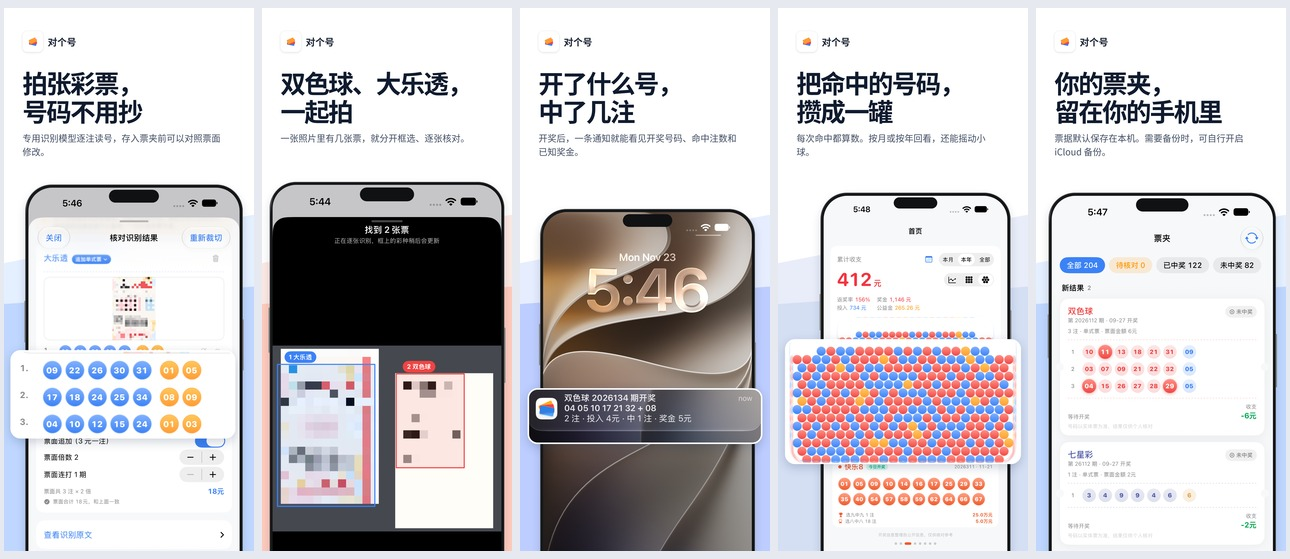
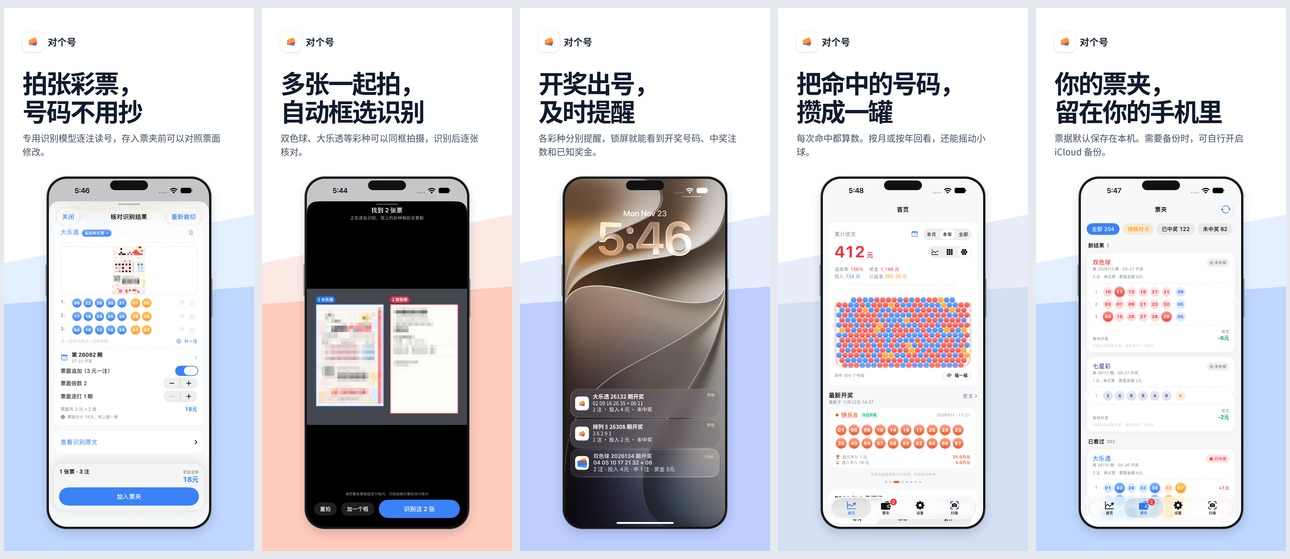
Show full screens and refine multi-ticket and notification store artwork

diff --git a/AppStore/Studio/index.html b/AppStore/Studio/index.html
@@ -60,22 +60,13 @@
       .poster::before,.poster::after { content:""; position:absolute; z-index:-1; border-radius:9cqw; }
       .poster::before { top:43%; left:-19%; width:143%; height:74%; transform:rotate(-11deg); background:var(--pale); }
       .poster::after { top:53%; left:-24%; width:148%; height:72%; transform:rotate(-4deg); background:var(--mid); }
-      .detail { display:none; position:absolute; z-index:3; border:.65cqw solid white; background:white; border-radius:4cqw; overflow:hidden; box-shadow:0 1.3cqw 4cqw #172d4c35; }
-      .detail img { display:block; position:absolute; max-width:none; }
-      /* Enlargements are crops of the same original simulator frame. */
-      [data-slide="0"] .detail { display:block; left:2.6%; width:90%; top:63%; height:16.3%; }
-      [data-slide="0"] .detail img { width:144%; left:-7%; top:-268%; }
-      [data-slide="3"] .detail { display:block; left:2.8%; width:94.4%; top:61%; height:23%; }
-      [data-slide="3"] .detail img { width:114%; left:-7%; top:-156%; }
-      [data-slide="2"] .detail { display:block; left:3%; width:94%; top:70%; height:10.3%; }
-      [data-slide="2"] .detail img { width:108%; left:-4%; top:-804%; }
       .device {
         position: absolute;
-        top: 32.5%;
-        width: 87%;
-        left: 8.5%;
-        padding: 1.25%;
-        border-radius: 10.6cqw;
+        top: 31%;
+        width: 66%;
+        left: 17%;
+        padding: 0.95%;
+        border-radius: 8.1cqw;
         background: linear-gradient(
           100deg,
           #54575a,
@@ -91,14 +82,10 @@
           0 1.8cqw 3.6cqw #15233a27,
           inset 0 0 0 0.2cqw #676b70;
       }
-      [data-slide="1"] .device { width:94%; left:3%; top:32%; }
-      [data-slide="3"] .device { width:76%; left:17%; top:34%; }
-      [data-slide="2"] .device { top:37%; left:8%; width:86%; }
-      [data-slide="4"] .device { width:91%; left:5%; top:34%; }
       .device img {
         display: block;
         width: 100%;
-        border-radius: 9.4cqw;
+        border-radius: 7.2cqw;
         position: relative;
       }
       .device:before,
@@ -158,7 +145,6 @@
           <p contenteditable="true"></p>
         </div>
         <div class="device"><img alt="" /><i class="island"></i></div>
-        <div class="detail" aria-hidden="true"><img alt="" /></div>
       </section>
     </main>
     <script src="vendor/html2canvas.min.js"></script>
@@ -166,8 +152,8 @@
       const base = "../../Tests/LotteryWalletUITests/__Snapshots__/";
       const slides = [
         ["识别", "拍张彩票，\n号码不用抄", "专用识别模型逐注读号，存入票夹前可以对照票面修改。", "AppStoreScreenshotTests/04-scan.png"],
-        ["多票", "双色球、大乐透，\n一起拍", "一张照片里有几张票，就分开框选、逐张核对。", "AppStoreScreenshotTests/06-multiple.png"],
-        ["通知", "开了什么号，\n中了几注", "开奖后，一条通知就能看见开奖号码、命中注数和已知奖金。", "AppStoreScreenshotTests/07-notification.png"],
+        ["多票", "多张一起拍，\n自动框选识别", "双色球、大乐透等彩种可以同框拍摄，识别后逐张核对。", "art/multiple.png"],
+        ["通知", "开奖出号，\n及时提醒", "各彩种分别提醒，锁屏就能看到开奖号码、中奖注数和已知奖金。", "art/notifications.png"],
         ["球罐", "把命中的号码，\n攒成一罐", "每次命中都算数。按月或按年回看，还能摇动小球。", "KeyFlowTests/balls-309-rest.png"],
         ["票夹", "你的票夹，\n留在你的手机里", "票据默认保存在本机。需要备份时，可自行开启 iCloud 备份。", "AppStoreScreenshotTests/02-wallet.png"],
       ];
@@ -182,25 +168,24 @@
         const slide = slides[i];
         let copy;
         try {
-          copy = JSON.parse(localStorage.getItem("store-v2-slide-" + i));
+          copy = JSON.parse(localStorage.getItem("store-v3-slide-" + i));
         } catch {}
         title.textContent = copy?.[0] ?? slide[1];
         desc.textContent = copy?.[1] ?? slide[2];
         document.querySelector(".poster").dataset.slide = i;
-        img.src = base + slide[3];
-        document.querySelector(".detail img").src = img.src;
-        img.alt = slide[0] + "模拟器截图";
+        img.src = slide[3].startsWith("art/") ? slide[3] : base + slide[3];
+        img.alt = slide[0] + "宣传画面";
         select.value = i;
       }
       select.onchange = () => show(+select.value);
       for (const field of [title, desc])
         field.oninput = () =>
           localStorage.setItem(
-            "store-v2-slide-" + select.value,
+            "store-v3-slide-" + select.value,
             JSON.stringify([title.textContent, desc.textContent]),
           );
       document.querySelector("#reset").onclick = () => {
-        localStorage.removeItem("store-v2-slide-" + select.value);
+        localStorage.removeItem("store-v3-slide-" + select.value);
         show(+select.value);
       };
       document.querySelector("#download").onclick = async (e) => {

diff --git a/AppStore/Studio/package.py b/AppStore/Studio/package.py
@@ -16,10 +16,10 @@ def package(destination):
     studio = Path(__file__).resolve().parent
     snapshots = studio.parents[1] / "Tests/LotteryWalletUITests/__Snapshots__"
     template = (studio / "index.html").read_text()
-    pattern = r"(['\"])((?:KeyFlowTests|AppStoreScreenshotTests)/[^'\"]+\.png)\1"
+    pattern = r"(['\"])((?:KeyFlowTests|AppStoreScreenshotTests|art)/[^'\"]+\.png)\1"
 
     def embed_snapshot(match):
-        return '"' + embedded(snapshots / match[2]) + '"'
+        return '"' + embedded((studio if match[2].startswith("art/") else snapshots) / match[2]) + '"'
 
     page, count = re.subn(pattern, embed_snapshot, template)
     if count != 5:
